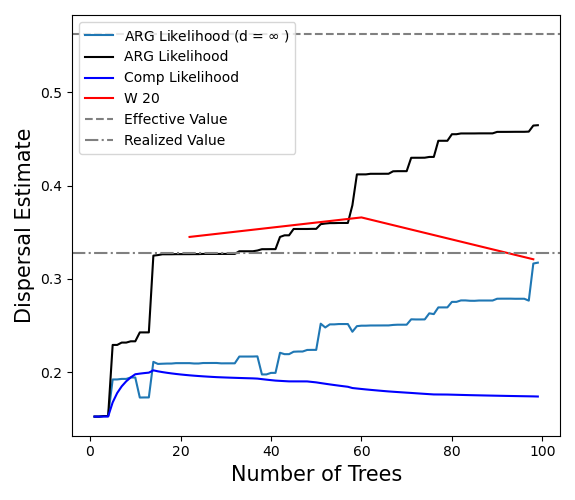
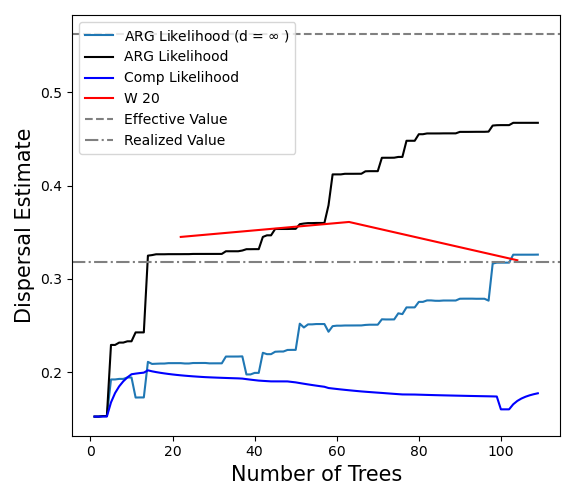
Updated Fig 5 and S4

diff --git a/figures/Supplemental/S4_DispersalRate/inf_cluster.py b/figures/Supplemental/S4_DispersalRate/inf_cluster.py
@@ -10,12 +10,12 @@ import sparg
 import tskit
 import numpy as np
 
-ts = tskit.load("slim_0.25rep1sigma.trees")
+ts = tskit.load("slim_disp0.25_mating1.0_comp1.0rep1sigma.trees")
 sd = 0
 print(sd)
 np.random.seed(sd)
 
-outfile = open("slim_0.25rep0_Supl2_DispersalRate.txt", "w")
+outfile = open("slim_0.25rep1_Supl_DispersalRate.txt", "w")
 
 keep_nodes = list(np.random.choice(ts.samples(), 10, replace=False))
 ts_sim, sim_map = ts.simplify(samples=keep_nodes, keep_input_roots=False, keep_unary=True, map_nodes=True)
@@ -28,7 +28,7 @@ sigma_trees_x = []
 sigma_trees_y = [] 
 
 for (bp_i,bp) in enumerate(ts_breaks):
-    if (bp_i > 99 and bp_i<110) or bp_i == len(ts_breaks)-1:
+    if (bp_i > 0 and bp_i<110) or bp_i == len(ts_breaks)-1:
         print(sd, bp_i,flush=True)
         ts_short = ts_chopped.keep_intervals(intervals=[(0,bp)], simplify=False).trim()
         ts_short_sim, maps_short_sim = sparg.simplify_with_recombination(ts=ts_short)

diff --git a/figures/Fig5/DataFiles/ComputingDispersalRates.py b/figures/Fig5/DataFiles/ComputingDispersalRates.py
@@ -146,14 +146,14 @@ fnames = []
 for mating in np.arange(0.1,1.1,0.1):
     for rep in range(1,6):
         mating = round(mating,2)
-        comp = 1
+        comp = 1.0
         fname = "slim_disp0.25" +"_mating"+str(mating)+"_comp"+str(comp)+ "rep"+str(rep)+ "sigma.trees"
         fnames += [(fname,)]
 
-for comp in [1.0, 2.0, 4.0, 10.0]:
+for comp in [1.0, 2.0, 4.0, 6.0, 8.0, 10.0]:
     for rep in range(1,6):
         comp = round(comp,2)
-        mating = 1
+        mating = 1.0
         fname = "slim_disp0.25" +"_mating"+str(mating)+"_comp"+str(comp)+ "rep"+str(rep)+ "sigma.trees"
         fnames += [(fname,)]        
 
